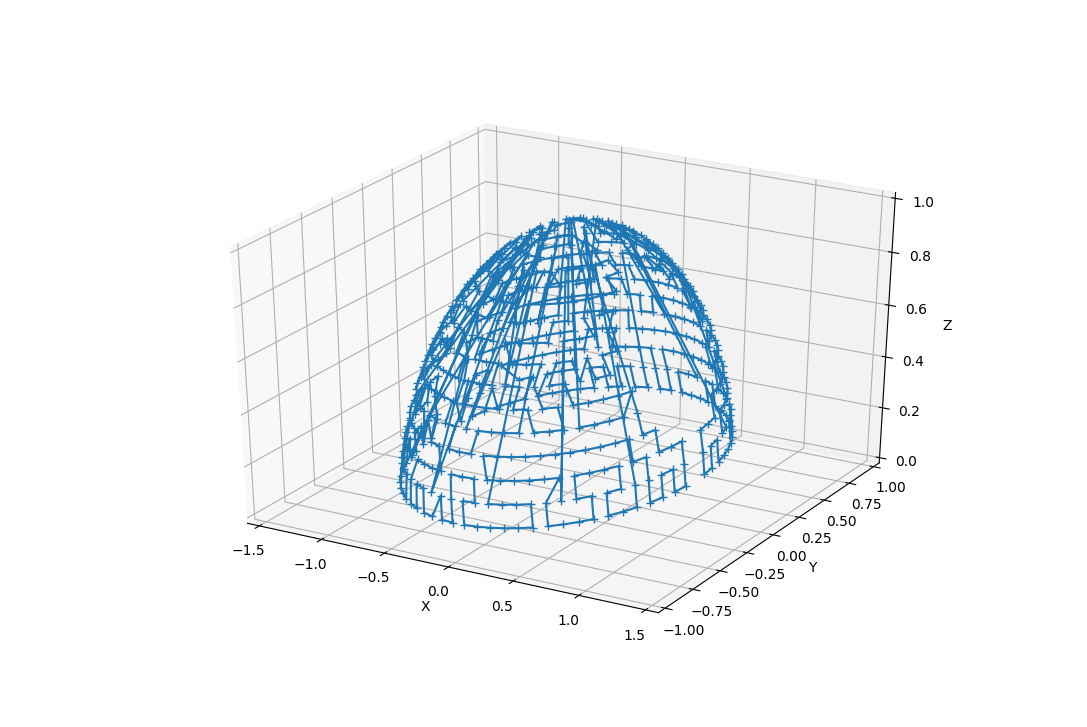
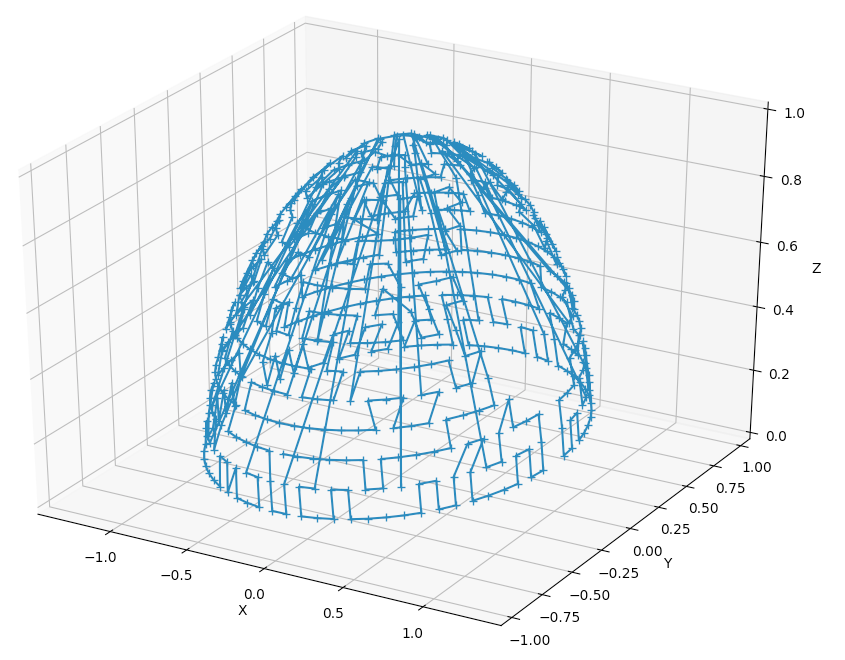
updated images and readme

diff --git a/tpoint.py b/tpoint.py
@@ -273,6 +273,8 @@ def Test():
 		az2,el2 = ShortestPath(az,el)
 		Plot2D(az2,el2,P)
 		Plot3D(az2,el2,P)
+		Plot2D(az2,el2,P,'-')
+		Plot3D(az2,el2,P,'-')
 
 def Plot2D(az,el,P,my_line_style='None'):
 	import matplotlib

diff --git a/README.md b/README.md
@@ -22,16 +22,12 @@ Example input:
         "MinEl": 5,
         "MeridianBuffer": 4,
         "PoleBuffer": 20,
-        "FovOverlap": 0.5,
         "Fov": 10,
         "Lat": 40,
         "Lon": -84,
-        "Direction": "EW",
-        "Number_Samples": 5000,
         "Exposure": 1,
-        "Step": 5,
-        "Area": 2
-} 
+        "Area": 5
+}
 ```
 
 All angle units are in degrees... that's the only note I can think of here.
